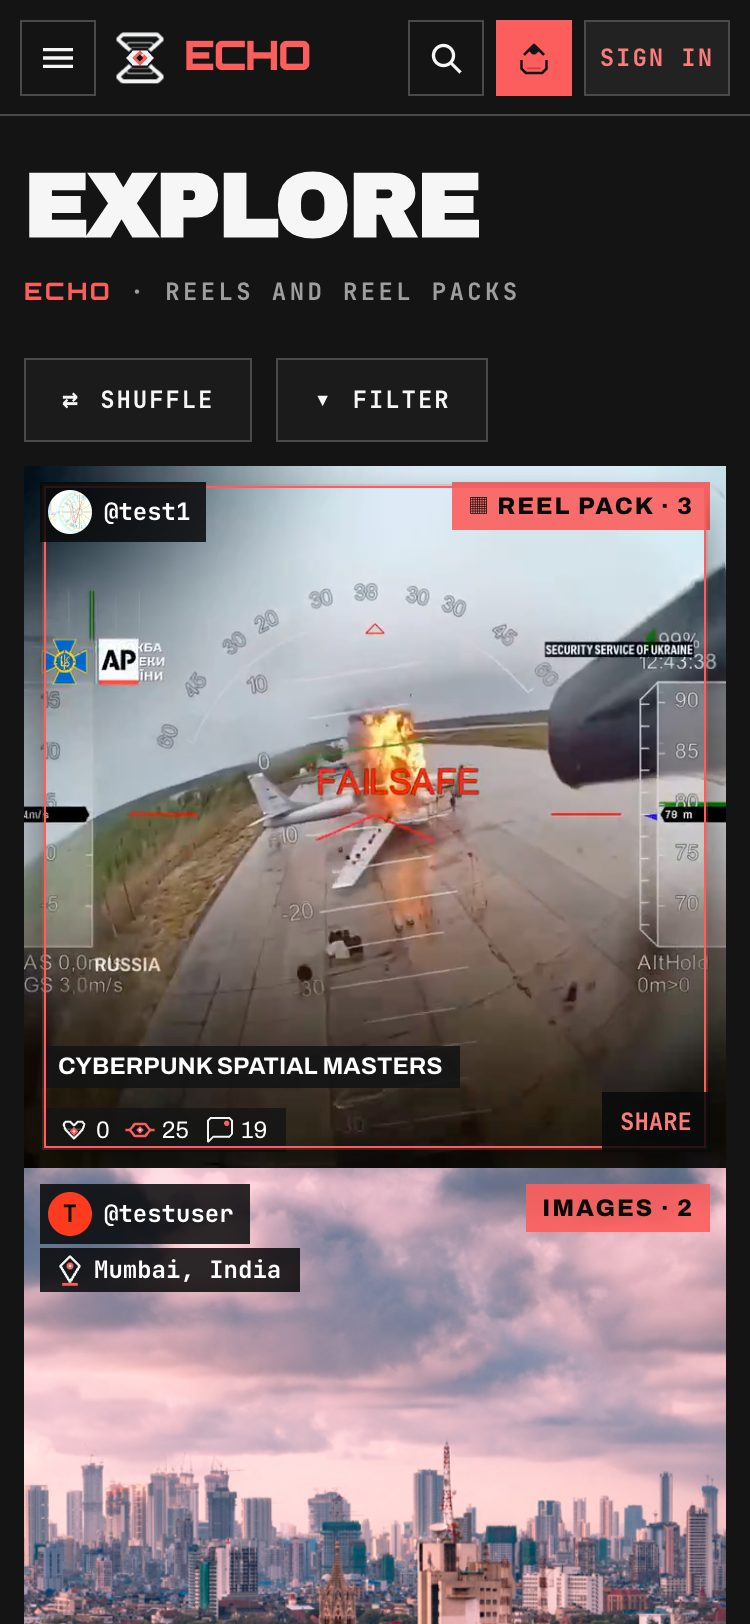
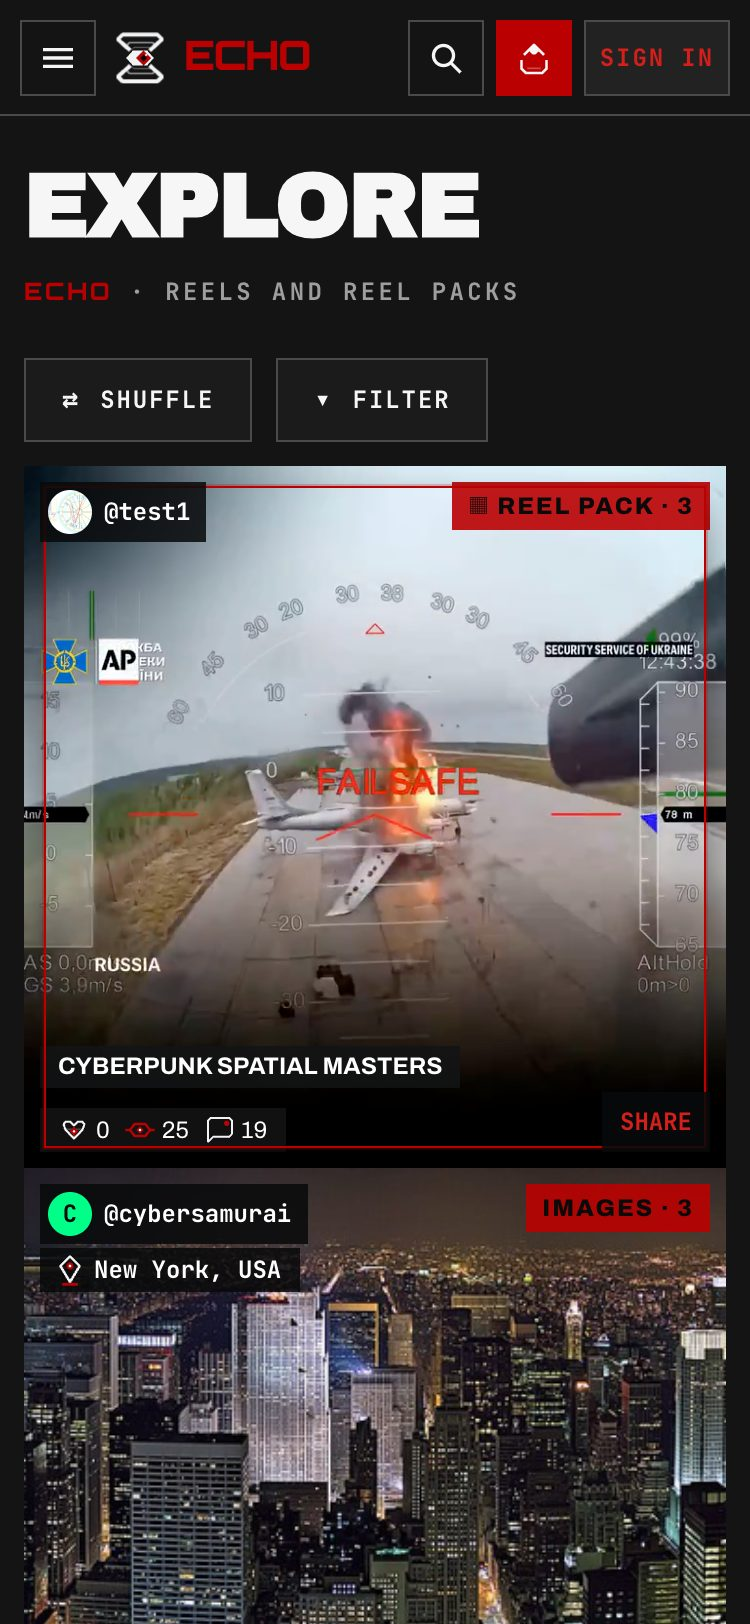
docs: Graphite red accent to #ba0001 with light button text, retake shots
Swap Graphite's #fc5e5d accent for #ba0001 (near the source #b90504) and #f6f6f6 on-accent text. Report card, rules note, contrast row and slider label updated; current and graphite screenshots retaken in one minute so the Explore order matches.

diff --git a/docs/palette-test/index.html b/docs/palette-test/index.html
@@ -111,7 +111,7 @@ figcaption b { color: var(--ink); font: 700 15px var(--font-display); font-stret
 .cmp-labels { position: absolute; top: 16px; left: 16px; right: 16px; display: flex; justify-content: space-between; pointer-events: none; z-index: 1; }
 .cmp-labels span { font: 700 11px var(--font-mono); letter-spacing: .16em; text-transform: uppercase; padding: 4px 10px; color: #0a0a0a; }
 .cmp-labels span:first-child { background: #ff3b1f; }
-.cmp-labels span:last-child { background: #fc5e5d; color: #141414; }
+.cmp-labels span:last-child { background: #ba0001; color: #f6f6f6; }
 .cmp.narrow .cmp-labels { top: 8px; left: 8px; right: 8px; }
 .cmp.narrow .cmp-labels span { letter-spacing: .08em; padding: 3px 7px; }
 
@@ -195,7 +195,7 @@ tr:last-child td { border-bottom: 0; }
 </header>
 
 <section id="rules" aria-labelledby="rules-h">
-  <h2 id="rules-h">Design-system check<small>Every palette follows the colour rules of the ECHO design system. The first seven were redone to fit.</small></h2>
+  <h2 id="rules-h">Design-system check<small>Every palette but Graphite red follows the colour rules of the ECHO design system. The first seven were redone to fit.</small></h2>
   <div class="cols">
     <div class="box">
       <h3>The rules</h3>
@@ -219,6 +219,7 @@ tr:last-child td { border-bottom: 0; }
     </div>
   </div>
   <p class="note">Red accents (Plum and the four red palettes) are close in hue to the danger rose <code>#f43f5e</code>. The app always pairs status colour with an icon or a word, so meaning is not lost, but errors stand out less. One of the links was sent three times; it is one palette, Oxblood.</p>
+  <p class="note">Graphite red is the exception: it uses <code>#ba0001</code> by request, near the source <code>#b90504</code>, with light button text. Red text and links on it fail 4.5:1.</p>
 </section>
 
 <section id="palettes" aria-labelledby="pal-h">
@@ -368,16 +369,16 @@ tr:last-child td { border-bottom: 0; }
       </div>
     </article>
 
-    <article class="pal" style="--p-bg:#141414;--p-s2:#222222;--p-rule:#4a4a4a;--p-ink:#f6f6f6;--p-ink2:#c4c4c4;--p-ink3:#9e9e9e;--p-accent:#fc5e5d;--p-on:#141414">
+    <article class="pal" style="--p-bg:#141414;--p-s2:#222222;--p-rule:#4a4a4a;--p-ink:#f6f6f6;--p-ink2:#c4c4c4;--p-ink3:#9e9e9e;--p-accent:#ba0001;--p-on:#f6f6f6">
       <div class="swatches" aria-hidden="true"><i style="background:#f6f6f6"></i><i style="background:#e8e8e8"></i><i style="background:#333333"></i><i style="background:#990100"></i><i style="background:#b90504"></i></div>
       <div class="pal-hero">
         <h3>11 · Graphite red <span>f6f6f6 e8e8e8 333333 990100 b90504</span></h3>
         <div class="mock"><span class="btn">Sign in</span><span class="ghost">Share</span><span class="txt">Secondary text</span><span class="lnk">Create one</span></div>
       </div>
       <div class="pal-body">
-        <p>Neutral greys with a red accent: the closest to today's matte black and vermilion. <code>#f6f6f6</code> text, <code>#333333</code> rule. The accent <code>#fc5e5d</code> is <code>#b90504</code> lifted (2.7:1 raw on the page). <code>#e8e8e8</code> and <code>#990100</code> have no role: each is too close to another colour in the set.</p>
-        <div class="roles"><span><b style="background:#141414"></b>bg 141414</span><span><b style="background:#222222"></b>surface-2 222222</span><span><b style="background:#333333"></b>rule 333333</span><span><b style="background:#fc5e5d"></b>accent fc5e5d</span></div>
-        <div class="tags"><span class="tag good">Dark</span><span class="tag warn">Accent lifted</span><span class="tag warn">Two colours unused</span></div>
+        <p>Neutral greys with a red accent: the closest to today's matte black and vermilion. <code>#f6f6f6</code> text, <code>#333333</code> rule. The accent is <code>#ba0001</code> by request, near the source <code>#b90504</code>: it is 2.7:1 on the page, so red text and links fail 4.5:1. Button text is light <code>#f6f6f6</code> (6.2:1), against the design-system rule. <code>#e8e8e8</code> and <code>#990100</code> have no role: each is too close to another colour in the set.</p>
+        <div class="roles"><span><b style="background:#141414"></b>bg 141414</span><span><b style="background:#222222"></b>surface-2 222222</span><span><b style="background:#333333"></b>rule 333333</span><span><b style="background:#ba0001"></b>accent ba0001</span></div>
+        <div class="tags"><span class="tag good">Dark</span><span class="tag bad">Accent 2.7:1</span><span class="tag warn">Light button text</span><span class="tag warn">Two colours unused</span></div>
       </div>
     </article>
 
@@ -441,7 +442,7 @@ tr:last-child td { border-bottom: 0; }
         <tr><td>8 · Slate red</td><td class="n">15.5</td><td class="n">8.7</td><td class="n">5.2</td><td class="n">5.9</td><td class="n">5.0</td><td class="n edge">4.5</td><td class="n">5.9</td><td class="n">9.3</td></tr>
         <tr><td>9 · Oxblood</td><td class="n">15.6</td><td class="n">10.0</td><td class="n">6.7</td><td class="n">5.2</td><td class="n">4.9</td><td class="n edge">4.5</td><td class="n">5.2</td><td class="n">10.9</td></tr>
         <tr><td>10 · Cocoa brick</td><td class="n">12.8</td><td class="n">8.3</td><td class="n">5.0</td><td class="n">5.6</td><td class="n">4.9</td><td class="n edge">4.5</td><td class="n">5.6</td><td class="n">9.9</td></tr>
-        <tr><td>11 · Graphite red</td><td class="n">17.0</td><td class="n">9.1</td><td class="n">5.9</td><td class="n">6.0</td><td class="n">5.2</td><td class="n edge">4.6</td><td class="n">6.0</td><td class="n">9.8</td></tr>
+        <tr><td>11 · Graphite red</td><td class="n">17.0</td><td class="n">9.1</td><td class="n">5.9</td><td class="n fail">2.7</td><td class="n fail">2.3</td><td class="n fail">2.0</td><td class="n">6.2</td><td class="n">9.8</td></tr>
       </tbody>
     </table>
   </div>
@@ -455,7 +456,7 @@ tr:last-child td { border-bottom: 0; }
     <li><div><b>Wine noir, if the goal is to keep today's mood.</b><p>Same near-black page, so photos and video still pop; only the accent and card tint change. Needs the lifted accent, not the raw <code>#893168</code>.</p></div></li>
     <li><div><b>Mulberry as the warmer alternative to Violet.</b><p>Equally readable. The derived pink accent is the one choice here not taken from the palette.</p></div></li>
     <li><div><b>Indigo night if Violet feels too dark.</b><p>Same lavender accent, but on a bluer, lighter page with grey instead of lilac text. Calmer; slightly less contrast for body text (12.7:1 against Violet's 17.7:1), still well above the bar.</p></div></li>
-    <li><div><b>Graphite red or Slate red, if the brand stays red.</b><p>Graphite is today's look with a softer red; Slate adds a cool blue cast. Both keep photos neutral. Any red accent sits near the danger colour, so errors stand out less.</p></div></li>
+    <li><div><b>Graphite red or Slate red, if the brand stays red.</b><p>Graphite is today's look with a deeper red, but its raw accent is too dark for red text; Slate adds a cool blue cast. Both keep photos neutral. Any red accent sits near the danger colour, so errors stand out less.</p></div></li>
     <li><div><b>Shadow plum is the safest step, Periwinkle and Oxblood the boldest.</b><p>Plum barely changes the brand. Periwinkle turns every page purple and Oxblood every page deep red, which may tire on long sessions. Lavender dusk and Cocoa brick are soft, low-energy options.</p></div></li>
   </ol>
 </section>

diff --git a/web/src/dev/palettes.css b/web/src/dev/palettes.css
@@ -243,9 +243,9 @@
   --sx-on-accent: #1c1412;
 }
 
-/* 11. Graphite red — coolors f6f6f6 e8e8e8 333333 990100 b90504 (light greys become the text; accent lifted from #b90504) */
+/* 11. Graphite red — coolors f6f6f6 e8e8e8 333333 990100 b90504 (light greys become the text; #ba0001 accent, near source #b90504, with light button text) */
 :root[data-palette="graphite"] {
-  --sx-accent-rgb: 252, 94, 93;
+  --sx-accent-rgb: 186, 0, 1;
   --sx-bg: #141414;
   --sx-surface: #1b1b1b;
   --sx-surface-2: #222222;
@@ -261,9 +261,9 @@
   --sx-ink-2: #c4c4c4;
   --sx-ink-3: #9e9e9e;
   --sx-ink-muted: #7d7d7d;
-  --sx-accent: #fc5e5d;
-  --sx-accent-hi: #fc7c7b;
-  --sx-on-accent: #141414;
+  --sx-accent: #ba0001;
+  --sx-accent-hi: #d61f1a;
+  --sx-on-accent: #f6f6f6;
 }
 
 /* Derived accent tints, shared by every palette. */
